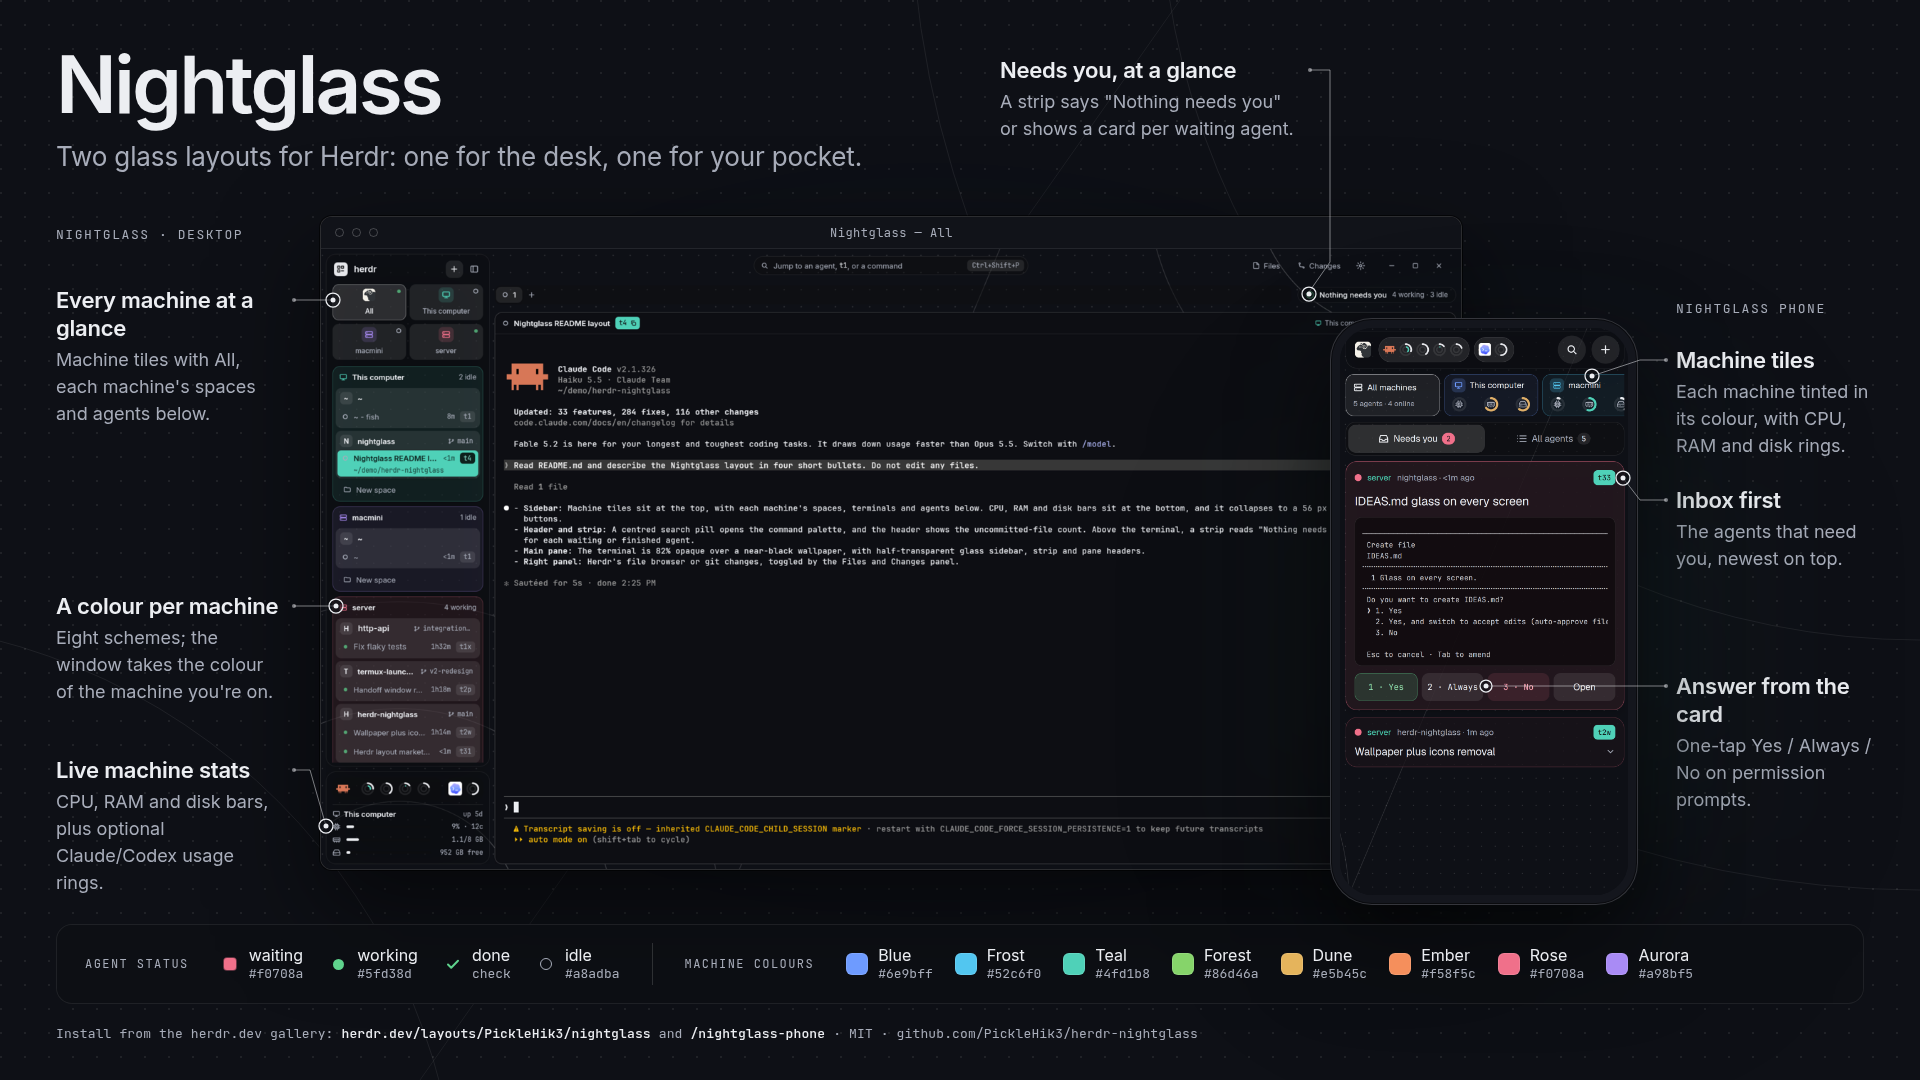
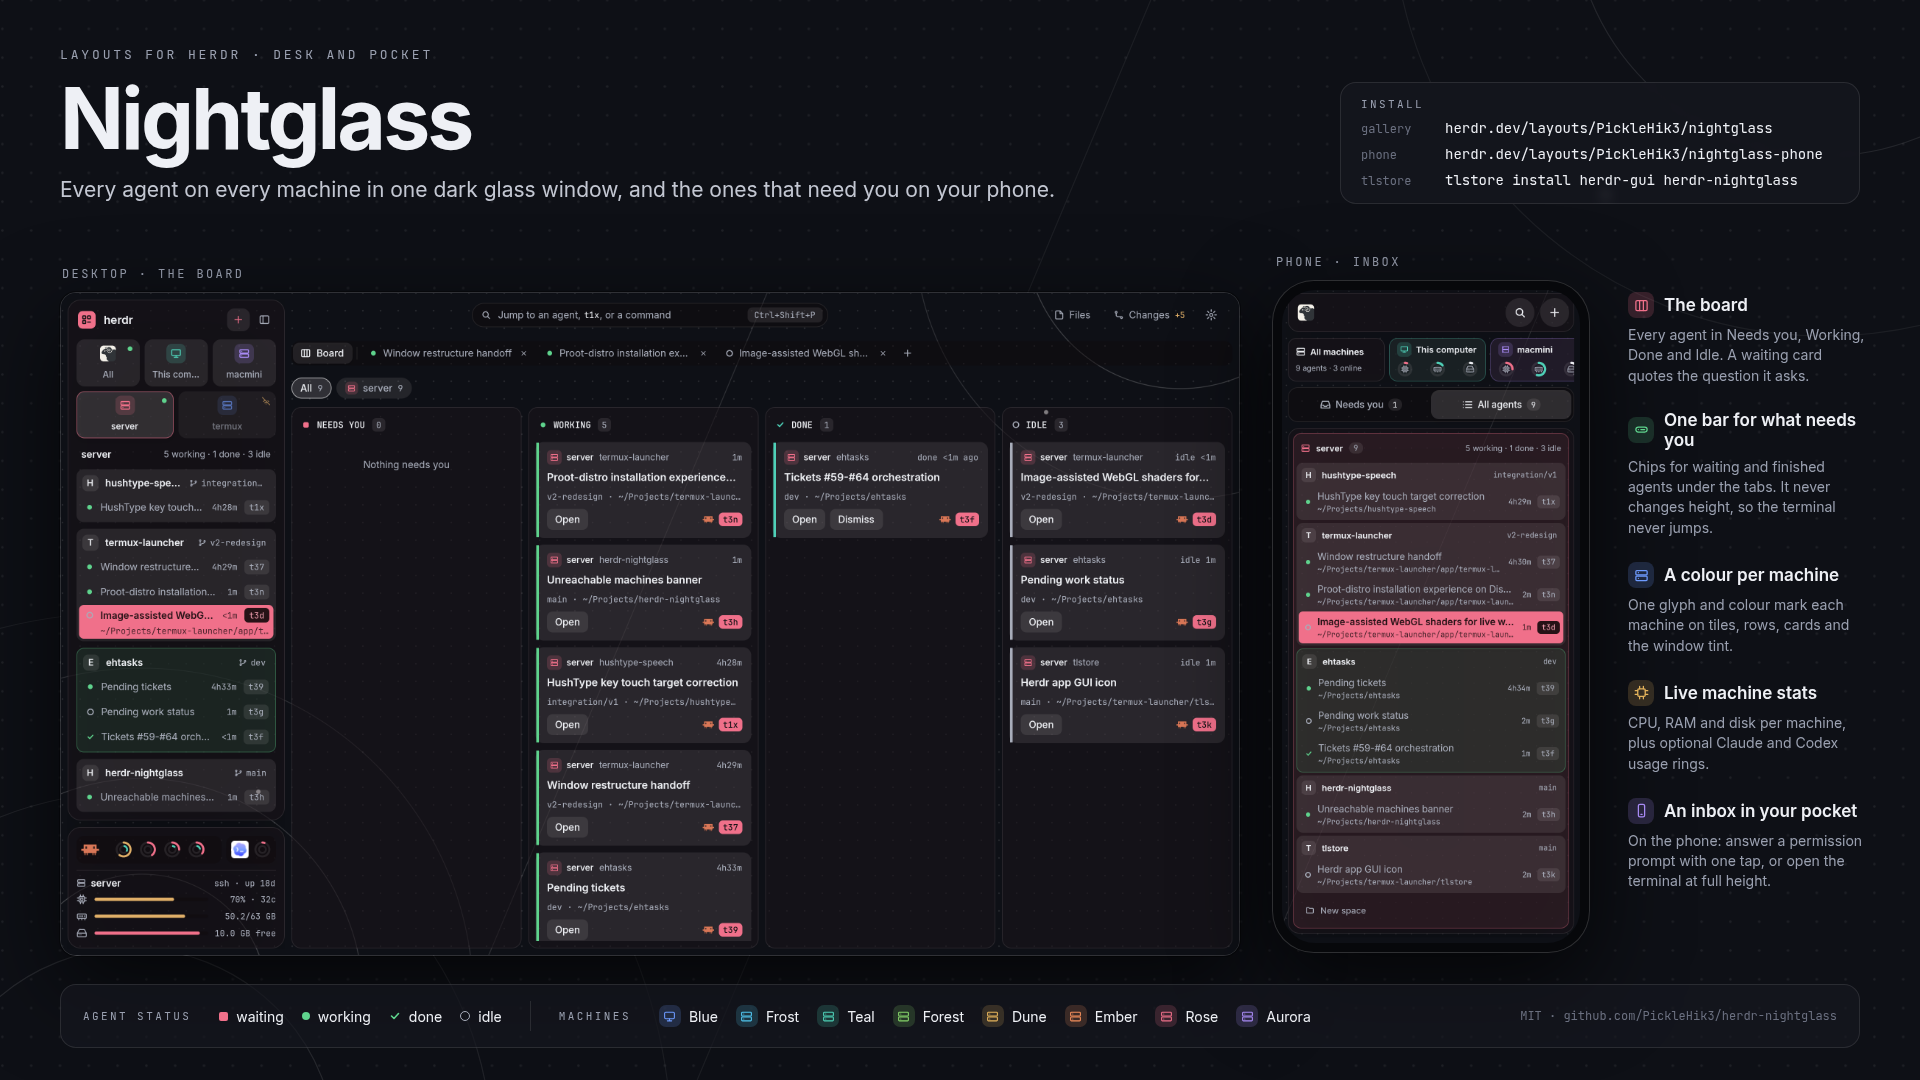
README: new hero (the desktop board and the phone inbox) and a three-line summary; gallery preview shows the board

diff --git a/README.md b/README.md
@@ -2,7 +2,11 @@
 
 Two dark glass layouts for [Herdr](https://herdr.dev): one for the desk, one for your pocket.
 
-![Nightglass: the desktop and phone layouts](docs/infographic.png)
+![Nightglass: the desktop board and the phone inbox](docs/infographic.png)
+
+- **Desktop:** every machine and agent in the sidebar, one fixed bar under the tabs for what needs you, and a **Board** that lays every agent out in Needs you, Working, Done and Idle, quoting the question each waiting agent asks.
+- **Phone:** an inbox of the agents that need you; answer a permission prompt with one tap or open the terminal at full height.
+- **One colour per machine:** a machine's glyph and colour mark it on tiles, rows, cards and the window tint.
 
 ## Install
 
@@ -14,7 +18,7 @@ Read ~/.config/herdr-app/AGENTS.md, then add this layout: herdr.dev/layouts/Pick
 
 For the phone layout, use `herdr.dev/layouts/PickleHik3/nightglass-phone` instead.
 
-To install by hand, copy the `layouts/`, `mods/` and `themes/` folders from `nightglass/` (or from `nightglass-phone/`) into `~/.config/herdr-app/`. Then run `herdr-app do layout.switch --name nightglass` (or `--name nightglass-phone`). The desktop layout needs herdr-app 0.1.16 or newer.
+To install by hand, copy the `layouts/`, `mods/` and `themes/` folders from `nightglass/` (or from `nightglass-phone/`) into `~/.config/herdr-app/`. Then run `herdr-app do layout.switch --name nightglass` (or `--name nightglass-phone`). The desktop layout needs herdr-app 0.1.16 or newer. Updating an older copy: copy `layouts/nightglass.json` again (or add its `board` block to your `main-stack`) to get the Board pill.
 
 **Usage rings (optional).** Usage rings are off by default. To show them, add `"usage": "<machine>"` to the props of the sidebar block (desktop) or the inbox block (phone), naming the machine that runs `~/.local/bin/ai-usage-tui`.
 
@@ -42,4 +46,4 @@ The root `layouts/`, `mods/` and `themes/` folders are the source. `nightglass/`
 
 The design files are in `design/`.
 
-MIT licence. The palette started from Tokyo Night by enkia.
+MIT licence. The palette started from Tokyo Night by enkia. The Board follows the idea of the `board` layout in [jkuepker/herdr-layouts](https://github.com/jkuepker/herdr-layouts) (MIT), rebuilt on Herdr's own agent states.
